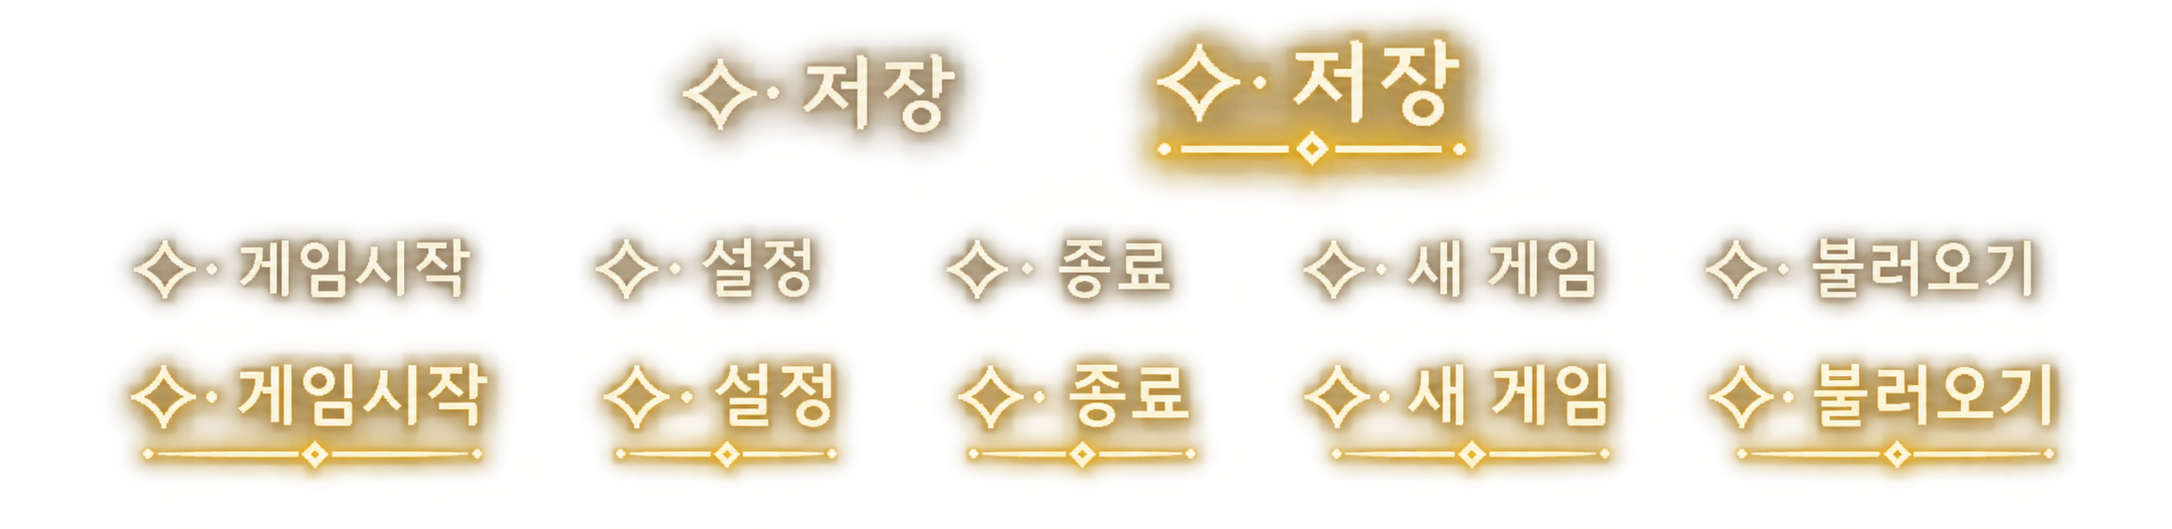
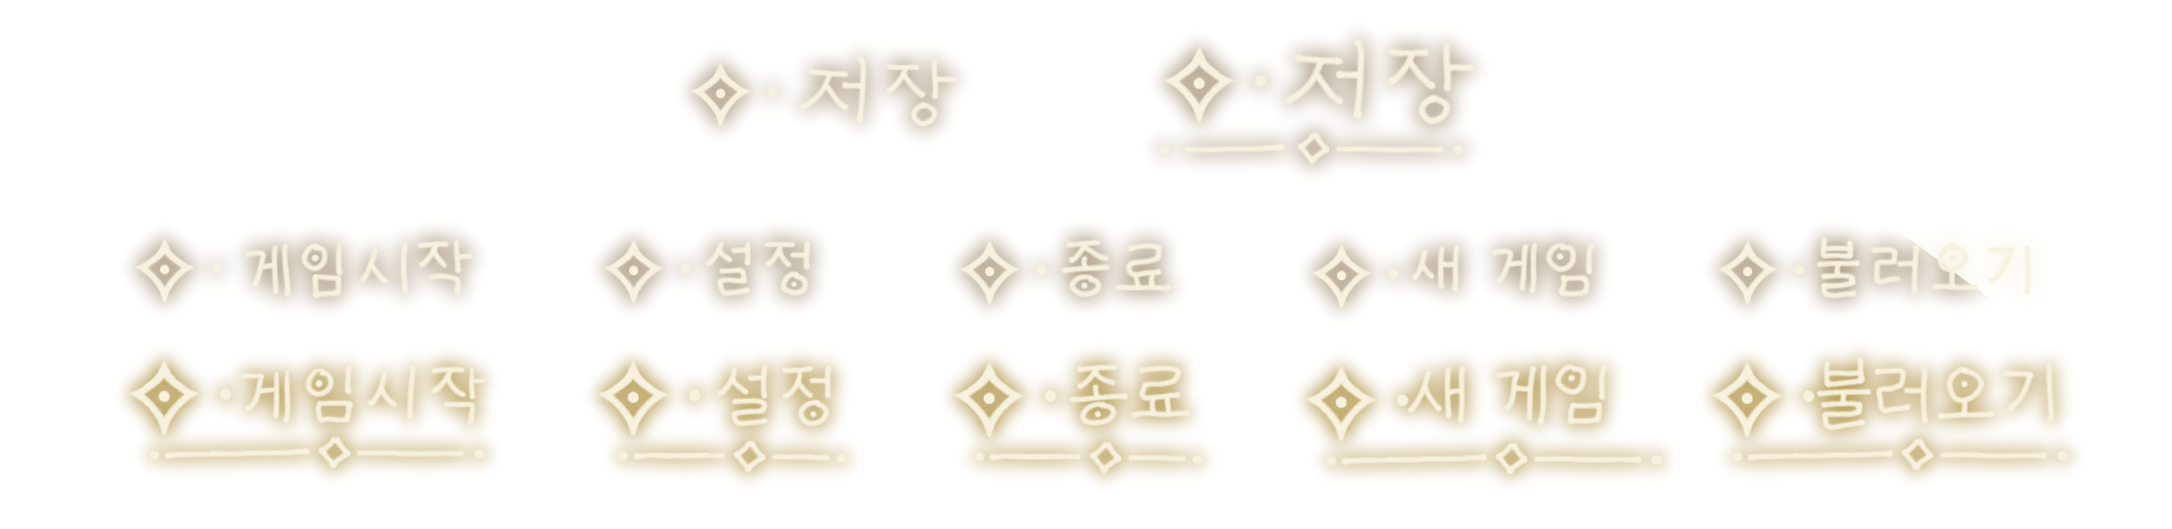
새 UI 시트로 설정 화면 재배치 및 음량 슬라이더 드래그 구현

diff --git a/code/settings_menu.py b/code/settings_menu.py
@@ -1,4 +1,4 @@
-"""Modal settings preview assembled from the supplied CHROMA UI kit."""
+"""Settings modal using the supplied hand-drawn UI sheet."""
 import pico2d
 
 from .settings import FONT_PATH, FONT_BOLD_PATH, IMAGE_ROOT, SCREEN_HEIGHT, SCREEN_WIDTH
@@ -6,36 +6,35 @@ from .settings import FONT_PATH, FONT_BOLD_PATH, IMAGE_ROOT, SCREEN_HEIGHT, SCRE
 
 class SettingsMenu:
     TABS = ('게임 설정', '화면 설정', '음향 설정', '조작 설정')
-    TAB_Y = (456, 378, 300, 222)
-    CLOSE_BOUNDS = (775, 58, 940, 112)
-    ACTION_BOUNDS = {
-        'save': (205, 58, 370, 112),
-        'title': (395, 58, 560, 112),
-        'quit': (585, 58, 750, 112),
-    }
+    TAB_Y = (410, 330, 250, 170)
+    CLOSE_BOUNDS = (988, 72, 1032, 120)
+    RESET_BOUNDS = (928, 72, 972, 120)
+    ACTION_BOUNDS = {'save': (686, 142, 782, 184),
+                     'title': (790, 142, 886, 184),
+                     'quit': (894, 142, 990, 184)}
+    SLIDER_LEFT, SLIDER_RIGHT = 714, 1018
+    SLIDER_Y = {'bgm': 370, 'sfx': 270}
+    INK = (48, 65, 51)
 
     def __init__(self):
-        folder = IMAGE_ROOT / 'ui/CHROMA_UI'
-        names = ('01_숲유적_배경', '02_설정창_프레임', '03_제목_장식',
-                 'slider_기본', 'checkbox_체크', 'toggle_켜짐',
-                 'icon_소리', 'icon_모니터', 'icon_게임패드', 'icon_설정',
-                 'button_돌아가기_기본', 'button_돌아가기_호버')
-        self.images = {name: pico2d.load_image(str(folder / f'{name}.png')) for name in names}
-        self.tabs = [pico2d.load_image(str(folder / f'tab_{name.replace(" ", "")}.png'))
-                     for name in self.TABS]
+        folder = IMAGE_ROOT / 'ui/current'
+        self.images = {name: pico2d.load_image(str(folder / f'{name}.png'))
+                       for name in ('menu', 'frame', 'button', 'back', 'reset',
+                                    'track', 'fill', 'knob')}
         self.shade = pico2d.load_image(str(IMAGE_ROOT / 'ui/fade_black.png'))
-        self.actions = pico2d.load_image(str(folder / '저장_게임종료_타이틀로_.webp'))
-        font = str(FONT_PATH)
-        self.font = pico2d.load_font(font, 22)
-        self.small = pico2d.load_font(font, 16)
-        self.heading = pico2d.load_font(str(FONT_BOLD_PATH), 28)
+        self.font = pico2d.load_font(str(FONT_PATH), 22)
+        self.small = pico2d.load_font(str(FONT_PATH), 16)
+        self.heading = pico2d.load_font(str(FONT_BOLD_PATH), 26)
         self.tab = 0
         self.mouse = None
         self.in_game = False
+        self.volumes = {'bgm': 80, 'sfx': 80}
+        self.dragging = None
 
     def open(self, in_game=False):
         self.in_game = in_game
         self.mouse = None
+        self.dragging = None
 
     @property
     def action_bounds(self):
@@ -48,100 +47,117 @@ class SettingsMenu:
         left, bottom, right, top = bounds
         return left <= x < right and bottom <= y < top
 
+    def set_volume(self, channel, x):
+        value = (x - self.SLIDER_LEFT) / (self.SLIDER_RIGHT - self.SLIDER_LEFT)
+        self.volumes[channel] = round(100 * max(0, min(1, value)))
+
     def handle_event(self, event):
+        if event.type == pico2d.SDL_WINDOWEVENT and event.event == pico2d.SDL_WINDOWEVENT_FOCUS_LOST:
+            self.dragging = None
         if event.type == pico2d.SDL_KEYDOWN and event.key == pico2d.SDLK_ESCAPE:
+            self.dragging = None
             return 'close'
-        if event.type in (pico2d.SDL_MOUSEMOTION, pico2d.SDL_MOUSEBUTTONDOWN,
-                          pico2d.SDL_MOUSEBUTTONUP):
-            self.mouse = event.x, SCREEN_HEIGHT - event.y
-            if event.type == pico2d.SDL_MOUSEBUTTONDOWN and event.button == pico2d.SDL_BUTTON_LEFT:
-                if self.contains(self.CLOSE_BOUNDS):
-                    return 'close'
-                for action, bounds in self.action_bounds.items():
-                    if action != 'save' and self.contains(bounds):
-                        return action
-                for index, y in enumerate(self.TAB_Y):
-                    if self.contains((190, y - 31, 407, y + 31)):
-                        self.tab = index
-                        break
+        if event.type not in (pico2d.SDL_MOUSEMOTION, pico2d.SDL_MOUSEBUTTONDOWN,
+                              pico2d.SDL_MOUSEBUTTONUP):
+            return None
+        self.mouse = event.x, SCREEN_HEIGHT - event.y
+        if event.type == pico2d.SDL_MOUSEMOTION and self.dragging:
+            self.set_volume(self.dragging, self.mouse[0])
+        if event.type == pico2d.SDL_MOUSEBUTTONUP and event.button == pico2d.SDL_BUTTON_LEFT:
+            if self.dragging:
+                self.set_volume(self.dragging, self.mouse[0])
+            self.dragging = None
+        if event.type != pico2d.SDL_MOUSEBUTTONDOWN or event.button != pico2d.SDL_BUTTON_LEFT:
+            return None
+        if self.contains(self.CLOSE_BOUNDS):
+            self.dragging = None
+            return 'close'
+        if self.contains(self.RESET_BOUNDS):
+            self.volumes.update(bgm=80, sfx=80)
+        for action, bounds in self.action_bounds.items():
+            if action != 'save' and self.contains(bounds):
+                self.dragging = None
+                return action
+        for index, y in enumerate(self.TAB_Y):
+            if self.contains((100, y - 31, 302, y + 31)):
+                self.tab = index
+                self.dragging = None
+                break
+        if self.tab == 2:
+            for channel, y in self.SLIDER_Y.items():
+                if self.contains((self.SLIDER_LEFT - 15, y - 22, self.SLIDER_RIGHT + 15, y + 22)):
+                    self.dragging = channel
+                    self.set_volume(channel, self.mouse[0])
+                    break
         return None
 
     def image(self, name, x, y, width, height):
         self.images[name].draw(x, y, width, height)
 
-    def line(self, y):
-        pico2d.draw_rectangle(438, y, 924, y + 1, 101, 117, 150, filled=True)
+    def centered(self, font, x, y, text, size, color=None):
+        width = sum(size * (.5 if ord(c) < 128 else 1) for c in text)
+        font.draw(x - width / 2, y, text, color or self.INK)
 
-    def label(self, x, y, text):
-        self.font.draw(x, y, text, (235, 238, 248))
+    def button(self, bounds, text, disabled=False, selected=False):
+        left, bottom, right, top = bounds
+        image = self.images['button']
+        image.opacify(.38 if disabled else (1 if self.contains(bounds) or selected else .76))
+        image.draw((left + right) / 2, (bottom + top) / 2, right - left, top - bottom)
+        self.centered(self.small, (left + right) / 2, (bottom + top) / 2, text, 16,
+                      (122, 130, 125) if disabled else self.INK)
 
     def value(self, y, label, value):
-        self.label(448, y, label)
-        self.small.draw(737, y, value, (180, 204, 235))
+        self.font.draw(510, y, label, self.INK)
+        self.font.draw(714, y, value, self.INK)
 
-    def check(self, y, label):
-        self.label(448, y, label)
-        self.image('checkbox_체크', 867, y, 34, 31)
+    def slider(self, channel):
+        y = self.SLIDER_Y[channel]
+        left, right = self.SLIDER_LEFT, self.SLIDER_RIGHT
+        fraction = self.volumes[channel] / 100
+        self.image('track', (left + right) / 2, y, right - left + 12, 23)
+        if fraction > 0:
+            fill = self.images['fill']
+            width = max(1, round(fill.w * fraction))
+            fill.clip_draw(0, 0, width, fill.h, left + (right - left) * fraction / 2,
+                           y, (right - left) * fraction, 12)
+        self.image('knob', left + (right - left) * fraction, y, 27, 30)
+        self.centered(self.small, (left + right) / 2, y - 31,
+                      f'{self.volumes[channel]}%', 16)
 
     def draw(self):
-        self.shade.opacify(.68)
+        self.shade.opacify(.65)
         self.shade.draw(SCREEN_WIDTH / 2, SCREEN_HEIGHT / 2, SCREEN_WIDTH, SCREEN_HEIGHT)
-        self.image('01_숲유적_배경', 576, 324, 815, 536)
-        self.shade.opacify(.34)
-        self.shade.draw(576, 324, 812, 530)
-        self.image('02_설정창_프레임', 576, 324, 860, 584)
-        self.image('03_제목_장식', 576, 582, 330, 61)
-        self.heading.draw(547, 554, '설정', (246, 240, 224))
-        # A quiet content surface keeps the kit's forest artwork visible around it.
-        self.shade.opacify(.30)
-        self.shade.draw(682, 320, 508, 354)
-        for index, (tab, y) in enumerate(zip(self.tabs, self.TAB_Y)):
-            selected = index == self.tab
-            hovered = self.contains((190, y - 31, 407, y + 31))
-            tab.opacify(1.0 if selected or hovered else .58)
-            tab.draw(298, y, 217, 62)
-            if selected:
-                pico2d.draw_rectangle(192, y - 29, 404, y + 29, 138, 211, 255)
-        icons = ('icon_설정', 'icon_모니터', 'icon_소리', 'icon_게임패드')
-        self.image(icons[self.tab], 465, 466, 36, 36)
-        self.label(498, 466, self.TABS[self.tab])
-        self.line(438)
+        self.image('menu', 201, 324, 310, 460)
+        self.image('frame', 742, 324, 724, 539)
+        for index, y in enumerate(self.TAB_Y):
+            self.button((100, y - 31, 302, y + 31), self.TABS[index], selected=index == self.tab)
+            if index == self.tab:
+                self.small.draw(79, y, '◆', (97, 167, 191))
+        self.centered(self.heading, 850, 470, self.TABS[self.tab], 26)
         if self.tab == 0:
-            self.value(399, '언어', '한국어')
-            self.line(371)
-            self.check(333, '화면 흔들림')
-            self.check(276, '피격 연출')
+            self.value(382, '언어', '한국어')
+            self.value(302, '화면 흔들림', '켜짐')
+            self.value(222, '피격 연출', '켜짐')
         elif self.tab == 1:
-            self.value(399, '화면 모드', '전체 화면')
-            self.value(345, '게임 해상도', f'{SCREEN_WIDTH} × {SCREEN_HEIGHT}')
-            self.line(316)
-            self.label(448, 273, '픽셀 화면 유지')
-            self.image('toggle_켜짐', 864, 273, 58, 44)
+            self.value(382, '화면 모드', '전체 화면')
+            self.value(302, '해상도', f'{SCREEN_WIDTH} × {SCREEN_HEIGHT}')
+            self.value(222, '픽셀 화면', '유지')
         elif self.tab == 2:
-            self.label(448, 396, '배경음악 (BGM)')
-            self.image('slider_기본', 673, 352, 309, 56)
-            self.small.draw(858, 352, '80%', (210, 228, 247))
-            self.label(448, 282, '효과음 (SFX)')
-            self.image('slider_기본', 673, 238, 309, 56)
-            self.small.draw(858, 238, '80%', (210, 228, 247))
+            self.font.draw(510, 370, '배경음악', self.INK)
+            self.font.draw(510, 270, '효과음', self.INK)
+            for channel in self.SLIDER_Y:
+                self.slider(channel)
+            self.centered(self.small, 850, 204, '드래그하여 음량 조절', 16)
         else:
-            for y, label, value in ((400, '이동', 'A / D'), (352, '점프', 'SPACE'),
-                                    (304, '발판 내려가기', 'S'), (256, '색 상호작용', '마우스 왼쪽'),
-                                    (208, '설정 / 계속하기', 'ESC')):
+            for y, label, value in ((395, '이동', 'A / D'), (352, '점프', 'SPACE'),
+                                    (309, '내려가기', 'S'), (266, '색 상호작용', '마우스 왼쪽'),
+                                    (223, '설정 / 계속', 'ESC')):
                 self.value(y, label, value)
-        self.small.draw(444, 159, '설정 변경 기능은 준비 중입니다.', (159, 179, 208))
-        self.small.draw(266, 124, 'ESC  ·  닫기 / 계속하기', (190, 208, 229))
-        for action, row in (('save', 2), ('title', 1), ('quit', 0)):
-            if action not in self.action_bounds:
-                continue
-            bounds = self.action_bounds[action]
-            # Sheet columns: normal, hover, selected, disabled.
-            column = 3 if action == 'save' else int(self.contains(bounds))
-            source_x = (24, 374, 729, 1079)[column]
-            source_top = 285 + row * 210
+        for action, text in (('save', '저장'), ('title', '타이틀로'), ('quit', '게임 종료')):
+            if action in self.action_bounds:
+                self.button(self.action_bounds[action], text, disabled=action == 'save')
+        for name, bounds in (('back', self.CLOSE_BOUNDS), ('reset', self.RESET_BOUNDS)):
             left, bottom, right, top = bounds
-            self.actions.clip_draw(source_x, self.actions.h - source_top - 150,
-                                   350, 150, (left + right) / 2, (bottom + top) / 2,
-                                   right - left, top - bottom)
-        state = '호버' if self.contains(self.CLOSE_BOUNDS) else '기본'
-        self.image(f'button_돌아가기_{state}', 857, 85, 165, 54)
+            self.images[name].opacify(1 if self.contains(bounds) else .8)
+            self.image(name, (left + right) / 2, (bottom + top) / 2, right - left, top - bottom)
+        self.small.draw(704, 100, 'ESC  계속하기', self.INK)

diff --git a/tests/test_settings_menu.py b/tests/test_settings_menu.py
@@ -9,13 +9,17 @@ from code.settings_menu import SettingsMenu
 
 class SettingsMenuTests(unittest.TestCase):
     def setUp(self):
-        with patch('pico2d.load_image', return_value=Mock(h=1086)), \
+        with patch('pico2d.load_image', return_value=Mock(w=538, h=1086)), \
              patch('pico2d.load_font', return_value=Mock()):
             self.menu = SettingsMenu()
 
     def click(self, x, y, button=pico2d.SDL_BUTTON_LEFT):
         return self.menu.handle_event(Event(type=pico2d.SDL_MOUSEBUTTONDOWN,
                                             x=x, y=648-y, button=button))
+
+    def click_bounds(self, bounds, button=pico2d.SDL_BUTTON_LEFT):
+        left, bottom, right, top = bounds
+        return self.click((left + right) / 2, (bottom + top) / 2, button)
 
     def test_tabs_and_close_use_logical_mouse_coordinates(self):
         for index, y in enumerate(self.menu.TAB_Y):
@@ -24,17 +28,20 @@ class SettingsMenuTests(unittest.TestCase):
         self.click(300, self.menu.TAB_Y[0], pico2d.SDL_BUTTON_RIGHT)
         self.assertEqual(self.menu.tab, 3)
         self.assertIsNone(self.click(10, 10))
-        self.assertEqual(self.click(850, 85), 'close')
+        self.assertEqual(self.click_bounds(self.menu.CLOSE_BOUNDS), 'close')
         self.assertEqual(self.menu.handle_event(Event(type=pico2d.SDL_KEYDOWN,
                                                       key=pico2d.SDLK_ESCAPE)), 'close')
 
-    def test_settings_controls_remain_previews(self):
+    def test_settings_pages_draw_and_reopening_retains_volume(self):
         self.menu.tab = 2
-        self.assertIsNone(self.click(700, 352))
+        self.assertIsNone(self.click(866, 370))
+        self.assertEqual(self.menu.volumes['bgm'], 50)
         self.assertEqual(self.menu.tab, 2)
         self.assertIsNone(self.click(280, 85))
         self.menu.open()
         self.assertIsNone(self.menu.mouse)
+        self.assertIsNone(self.menu.dragging)
+        self.assertEqual(self.menu.volumes['bgm'], 50)
         with patch('pico2d.draw_rectangle'):
             for self.menu.tab in range(4):
                 self.menu.draw()
@@ -44,13 +51,43 @@ class SettingsMenuTests(unittest.TestCase):
         self.assertEqual(tuple(self.menu.action_bounds), ('quit',))
         self.assertIsNone(self.click(480, 85))
         self.assertIsNone(self.click(280, 85))
-        self.assertEqual(self.click(670, 85), 'quit')
+        self.assertEqual(self.click_bounds(self.menu.ACTION_BOUNDS['quit']), 'quit')
         self.menu.open(in_game=True)
         self.assertEqual(tuple(self.menu.action_bounds), ('save', 'title', 'quit'))
-        self.assertEqual(self.click(480, 85), 'title')
-        self.assertEqual(self.click(670, 85), 'quit')
-        self.assertIsNone(self.click(480, 85, pico2d.SDL_BUTTON_RIGHT))
-        self.assertIsNone(self.click(670, 85, pico2d.SDL_BUTTON_RIGHT))
+        self.assertEqual(self.click_bounds(self.menu.ACTION_BOUNDS['title']), 'title')
+        self.assertEqual(self.click_bounds(self.menu.ACTION_BOUNDS['quit']), 'quit')
+        self.assertIsNone(self.click_bounds(self.menu.ACTION_BOUNDS['title'], pico2d.SDL_BUTTON_RIGHT))
+        self.assertIsNone(self.click_bounds(self.menu.ACTION_BOUNDS['quit'], pico2d.SDL_BUTTON_RIGHT))
+
+    def test_slider_drag_clamps_releases_and_keeps_channels_independent(self):
+        self.menu.tab = 2
+        self.click(714, 370)
+        self.assertEqual(self.menu.volumes, {'bgm': 0, 'sfx': 80})
+        self.menu.handle_event(Event(type=pico2d.SDL_MOUSEMOTION, x=1400, y=10))
+        self.assertEqual(self.menu.volumes['bgm'], 100)
+        self.menu.handle_event(Event(type=pico2d.SDL_MOUSEBUTTONUP, button=1, x=866, y=10))
+        self.assertEqual(self.menu.volumes['bgm'], 50)
+        self.menu.handle_event(Event(type=pico2d.SDL_MOUSEMOTION, x=-50, y=10))
+        self.assertEqual(self.menu.volumes['bgm'], 50)
+        self.click(1018, 270)
+        self.menu.handle_event(Event(type=pico2d.SDL_MOUSEMOTION, x=-20, y=10))
+        self.assertEqual(self.menu.volumes, {'bgm': 50, 'sfx': 0})
+        self.menu.handle_event(Event(type=pico2d.SDL_WINDOWEVENT,
+                                     event=pico2d.SDL_WINDOWEVENT_FOCUS_LOST))
+        self.assertIsNone(self.menu.dragging)
+        self.click_bounds(self.menu.RESET_BOUNDS)
+        self.assertEqual(self.menu.volumes, {'bgm': 80, 'sfx': 80})
+
+    def test_slider_ignores_other_tabs_and_right_click_and_escape_cancels_drag(self):
+        self.click(714, 370)
+        self.assertEqual(self.menu.volumes['bgm'], 80)
+        self.menu.tab = 2
+        self.click(714, 370, pico2d.SDL_BUTTON_RIGHT)
+        self.assertIsNone(self.menu.dragging)
+        self.click(714, 370)
+        self.assertEqual(self.menu.dragging, 'bgm')
+        self.menu.handle_event(Event(type=pico2d.SDL_KEYDOWN, key=pico2d.SDLK_ESCAPE))
+        self.assertIsNone(self.menu.dragging)
 
     def test_return_to_title_allows_fresh_game_and_quit_closes_canvas(self):
         import main

diff --git a/tools/prepare_ui.py b/tools/prepare_ui.py
@@ -1,0 +1,30 @@
+"""Extract the supplied UI sheet's colored components without altering the source."""
+from pathlib import Path
+from PIL import Image
+
+ROOT = Path(__file__).resolve().parent.parent
+
+
+def main():
+    sheet = Image.open(ROOT / 'image/ui/ui.png').convert('RGBA')
+    output = ROOT / 'image/ui/current'
+    output.mkdir(exist_ok=True)
+    regions = {
+        'menu': (145, 1800, 860, 2860),
+        'frame': (1000, 1820, 2440, 2910),
+        'button': (315, 1435, 595, 1545),
+        'back': (320, 1550, 435, 1675),
+        'reset': (470, 1550, 585, 1675),
+        'track': (750, 1455, 1325, 1520),
+        'fill': (760, 1540, 1320, 1585),
+        'knob': (745, 1610, 820, 1695),
+    }
+    for name, bounds in regions.items():
+        crop = sheet.crop(bounds)
+        crop = crop.crop(crop.getchannel('A').getbbox())
+        crop.save(output / f'{name}.png')
+        print(name, crop.size)
+
+
+if __name__ == '__main__':
+    main()
